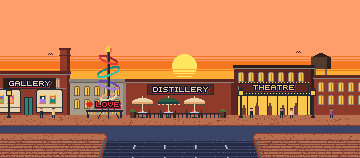
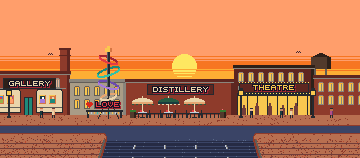
Lay the Distillery District's paving seams every 32 road px, as every verge's
At 16, the far rows, which each cover up to 16 road px, drew a seam on nearly
every row, a dark band across the top of the sidewalk, and the seams strobed
as the road scrolled.

diff --git a/art/tools/backdrops.py b/art/tools/backdrops.py
@@ -666,7 +666,7 @@ VERGES = {
     "distillery-district": dict(curbColour="dstone", curbTo=164, strips=[], walkColour="brown",
                                 walkDots=[dict(colours=["brick"], share=0.1), dict(colours=["dbrown"], share=0.04),
                                           dict(colours=["rust"], share=0.02)],
-                                seamColour="dbrown", seamEvery=16, walkTo=None, lawn="none",
+                                seamColour="dbrown", seamEvery=32, walkTo=None, lawn="none",
                                 lawnColours=None, leaves=False),
     "kensington-market": dict(curbColour="stone", curbTo=162, strips=[dict(colour="teal", dots=[], to=166)],
                               walkColour="dturq", walkDots=[dict(colours=["turquoise"], share=0.05)],

diff --git a/art/style-guide.md b/art/style-guide.md
@@ -250,7 +250,7 @@ Road sprites have redrawn depth variants at the steps in `shared/depth-steps.jso
 
 ### Verges
 
-The game draws the verge beside each road: the curb, any strips, the sidewalk or paving with a seam across it every `seamEvery` road px, then the lawn. They are `VERGES` in `art/tools/backdrops.py`, keyed by art id with colours by `K` name; `backdrops.py build` and `verges --write` write them to `shared/verges.json`, which the game reads, and each backdrop's approach rows paint the same verge.
+The game draws the verge beside each road: the curb, any strips, the sidewalk or paving with a seam across it every `seamEvery` road px, then the lawn. `seamEvery` is 32 on every verge, as the road's joints: a shorter period strobes as the road scrolls, and far rows, which each cover up to 16 road px, draw a seam on nearly every row, a dark band. They are `VERGES` in `art/tools/backdrops.py`, keyed by art id with colours by `K` name; `backdrops.py build` and `verges --write` write them to `shared/verges.json`, which the game reads, and each backdrop's approach rows paint the same verge.
 
 Each neighbourhood's verge has its own colour family: Cabbagetown stone sidewalks and olive lawns, High Park pine woods with bark patches, the Distillery District brown pavers in dbrown courses, Kensington Market dturq paving with a teal strip, The Beaches driftwood sand and Yonge Street dslate pavement. A verge's base is a mid tone or among the darkest. An ambient person or lawn animal holds 3:1 on 87% or more of its edge pixels (opaque pixels beside a clear one) on the mid tones (stone, olive, brown, dturq) and on all of them on driftwood. On the darkest (pine, bark, dslate) its outline does not hold and the light rim or fill just inside it holds on 59% or more. A tone between them (brick, dbrown, dolive, dstone, ash, slate, violet) holds neither, so it is kept to seams, flecks and Cabbagetown's mown stripes.
 
